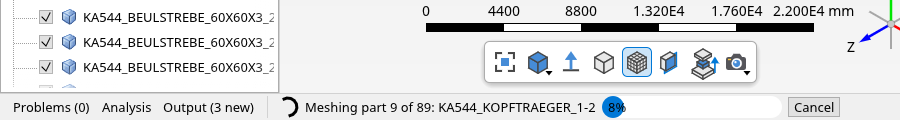
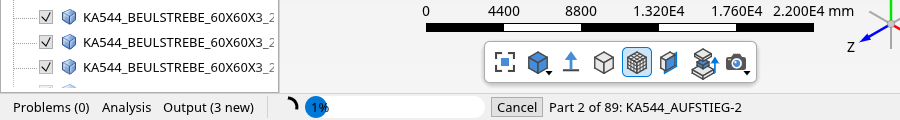
Mesh a part again without Netgen after a Gmsh crash, keep finished parts on Cancel
The progress bar and the Cancel button keep their place in the status bar; the
part's name follows them. Gmsh's log of a crash is kept as nodalis-gmsh-crash.log.

Claude-Session: https://claude.ai/code/session_0117wmBMg2RtfFDmTaqogpYr

diff --git a/crates/plx-app/src/meshing.rs b/crates/plx-app/src/meshing.rs
@@ -1294,11 +1294,14 @@ pub fn item_highlight(view: &Model, kind: &MeshSetupKind) -> Highlight {
 }
 
 /// The meshes of some parts, generated one after the other.
+#[derive(Default)]
 pub struct PartMeshes {
     pub meshes: Vec<GeneratedMesh>,
     /// Why the parts that could not be meshed failed, one message each, naming the part:
     /// a part that fails leaves the others to be meshed.
     pub failed: Vec<String>,
+    /// Cancelled before all parts were done; the meshes are those finished before.
+    pub cancelled: bool,
 }
 
 /// The argument that makes the program a meshing worker instead of opening its window.
@@ -1402,7 +1405,7 @@ fn mesh_parts(
     let parts = parts_to_mesh(geometry, parts)?;
     let mut generated = PartMeshes {
         meshes: Vec::with_capacity(parts.len()),
-        failed: Vec::new(),
+        ..PartMeshes::default()
     };
     mesh_list(
         geometry,
@@ -1478,6 +1481,8 @@ const CURRENT: &str = "current";
 
 /// The file Gmsh's messages go to.
 const GMSH_LOG: &str = "gmsh.log";
+/// Where the log of the last worker that crashed is kept, in the temporary folder.
+const CRASH_LOG: &str = "nodalis-gmsh-crash.log";
 
 /// The file of the K-th part's outcome, see [`PartOutcome`].
 fn part_file(k: usize) -> String {
@@ -1522,11 +1527,8 @@ fn mesh_in_worker(
         matching,
         parts,
     };
-    let mut generated = PartMeshes {
-        meshes: Vec::new(),
-        failed: Vec::new(),
-    };
-    while !request.parts.is_empty() {
+    let mut generated = PartMeshes::default();
+    while !request.parts.is_empty() && !generated.cancelled {
         // The parts before this worker's are done, meshed or failed.
         let before = total - request.parts.len();
         let parts = &request.parts;
@@ -1541,7 +1543,10 @@ fn mesh_in_worker(
         let Some((k, message)) = crashed else {
             break;
         };
-        generated.failed.push(message);
+        let part = request.parts[k].clone();
+        if !generated.cancelled {
+            mesh_without_netgen(program, &request, &part, message, cancel, &mut generated)?;
+        }
         // The parts after the one that crashed Gmsh, but not those meshed with others.
         let meshed: Vec<&str> = (generated.meshes.iter())
             .flat_map(|m| m.mesh.parts.iter().map(|p| p.name.as_str()))
@@ -1554,8 +1559,68 @@ fn mesh_in_worker(
     Ok(generated)
 }
 
+/// Meshes `part`, on which Gmsh crashed with `message`, once more without the Netgen
+/// optimization, which is where Gmsh crashes most; the part fails with `message` if it
+/// crashes again or was not optimized anyway.
+fn mesh_without_netgen(
+    program: &Path,
+    request: &WorkerRequest,
+    part: &str,
+    message: String,
+    cancel: &AtomicBool,
+    generated: &mut PartMeshes,
+) -> Result<(), String> {
+    let parameters = request.geometry.parameters(part);
+    if !parameters.optimize {
+        generated.failed.push(message);
+        return Ok(());
+    }
+    let mut geometry = request.geometry.clone();
+    geometry.mesh_items.push(plx_model::MeshSetupItem {
+        name: "Without Netgen".into(),
+        kind: plx_model::MeshSetupKind::MeshingParameters {
+            parts: vec![part.to_string()],
+            // The parameters the part has, with the sizes before any refinement.
+            parameters: plx_model::MeshingParameters {
+                optimize: false,
+                ..unrefined(&request.geometry, part)
+            },
+        },
+    });
+    let retry = WorkerRequest {
+        library: request.library.clone(),
+        geometry,
+        matching: request.matching.clone(),
+        parts: vec![part.to_string()],
+    };
+    let (meshes, failed) = (generated.meshes.len(), generated.failed.len());
+    run_worker(program, &retry, cancel, &|_| {}, generated)?;
+    // Only the first failure is told, which is what the user meshed with.
+    generated.failed.truncate(failed);
+    match generated.meshes.get_mut(meshes) {
+        Some(mesh) => mesh.warnings.push(format!(
+            "{message}. It was meshed again without Optimize mesh (Netgen), which worked"
+        )),
+        None if generated.cancelled => generated.failed.push(message),
+        None => generated.failed.push(format!(
+            "{message}. Meshed again without Optimize mesh (Netgen), it failed as well"
+        )),
+    }
+    Ok(())
+}
+
+/// The meshing parameters of `part` as set, before the refinement of the geometry.
+fn unrefined(geometry: &Geometry, part: &str) -> plx_model::MeshingParameters {
+    let mut parameters = geometry.parameters(part);
+    let refinement = geometry.refined(1.0);
+    parameters.max_size /= refinement;
+    parameters.min_size /= refinement;
+    parameters
+}
+
 /// Runs one worker on `request` and adds what it made to `generated`; returns the place in
-/// the request of the part it crashed on, with the message that tells so.
+/// the request of the part it crashed on, with the message that tells so. Cancelled, it
+/// keeps the parts finished before and marks `generated` cancelled.
 fn run_worker(
     program: &Path,
     request: &WorkerRequest,
@@ -1595,7 +1660,8 @@ fn run_worker(
         if cancel.load(Ordering::Relaxed) {
             let _ = child.kill();
             let _ = child.wait();
-            return Err(CANCELLED.into());
+            generated.cancelled = true;
+            break (None, None);
         }
         if let Ok(text) = std::fs::read_to_string(&result) {
             let _ = child.kill();
@@ -1627,6 +1693,9 @@ fn run_worker(
         let result: WorkerResult = ron::from_str(&text).map_err(|e| e.to_string())?;
         return result.map(|()| None);
     }
+    if generated.cancelled {
+        return Ok(None);
+    }
     let status = status.map_or_else(String::new, |s| format!(" ({s})"));
     // The part it was meshing when it stopped, unless it stopped before or after the parts.
     let current = (std::fs::read_to_string(dir.0.join(CURRENT)).ok())
@@ -1640,12 +1709,15 @@ fn run_worker(
         .find_map(plx_mesher::meshing_step)
         .map_or_else(String::new, |step| format!(" while {step}"));
     let part = &request.parts[current];
+    // Gmsh's own words up to the crash, for a report of it.
+    let kept = std::env::temp_dir().join(CRASH_LOG);
+    let kept = match std::fs::write(&kept, &gmsh_log) {
+        Ok(()) => format!(" (Gmsh's log: {})", kept.display()),
+        Err(_) => String::new(),
+    };
     Ok(Some((
         current,
-        format!(
-            "{part}: Gmsh crashed{place}{status}. The other parts are meshed on; a \
-             different element size or a repaired geometry of the part may help"
-        ),
+        format!("{part}: Gmsh crashed{place}{status}{kept}"),
     )))
 }
 
@@ -1712,6 +1784,16 @@ impl MeshingJob {
             cancel,
             progress,
         }
+    }
+
+    /// Stops the meshing; the parts finished before are kept, see [`PartMeshes::cancelled`].
+    pub fn cancel(&self) {
+        self.cancel.store(true, Ordering::Relaxed);
+    }
+
+    /// Whether [`Self::cancel`] was called.
+    pub fn cancelling(&self) -> bool {
+        self.cancel.load(Ordering::Relaxed)
     }
 
     /// How far it is: the part meshed now, with the parts done and all; `None` before the

diff --git a/crates/plx-app/src/app.rs b/crates/plx-app/src/app.rs
@@ -1149,35 +1149,34 @@ impl AnalysisWindow {
                 }
             }
             (None, _) if self.workbench.meshing.is_some() => {
-                let progress = (self.workbench.meshing.as_ref()).and_then(|j| j.progress());
-                match progress {
-                    // With more than one part, how many are done.
-                    Some(progress) if progress.total > 1 => {
-                        ui.spinner();
-                        ui.label(format!(
-                            "Meshing part {} of {}: {}",
-                            progress.done + 1,
-                            progress.total,
-                            progress.part
-                        ));
-                        ui.add(
-                            egui::ProgressBar::new(progress.done as f32 / progress.total as f32)
-                                .desired_width(180.0)
-                                .show_percentage(),
-                        );
-                    }
-                    Some(progress) => {
-                        ui.spinner();
-                        ui.label(format!("Meshing {} …", progress.part));
-                    }
-                    None => {
-                        ui.spinner();
-                        ui.label("Meshing …");
-                    }
+                let job = self.workbench.meshing.as_ref();
+                let cancelling = job.is_some_and(MeshingJob::cancelling);
+                let progress = job.and_then(MeshingJob::progress);
+                ui.spinner();
+                // The bar and the button first, at fixed places, and the text that changes
+                // its length after them.
+                let several = progress.as_ref().filter(|p| p.total > 1);
+                if let Some(progress) = several {
+                    ui.add(
+                        egui::ProgressBar::new(progress.done as f32 / progress.total as f32)
+                            .desired_width(180.0)
+                            .show_percentage(),
+                    );
                 }
-                cancel = (ui.small_button("Cancel"))
-                    .on_hover_text("Stop the meshing; the parts keep their old mesh.")
-                    .clicked();
+                if !cancelling {
+                    cancel = (ui.small_button("Cancel"))
+                        .on_hover_text("Stop the meshing; the parts meshed so far are kept.")
+                        .clicked();
+                }
+                let text = match (&progress, cancelling) {
+                    (_, true) => "Cancelling the meshing …".to_string(),
+                    (Some(p), _) if p.total > 1 => {
+                        format!("Part {} of {}: {}", p.done + 1, p.total, p.part)
+                    }
+                    (Some(p), _) => format!("Meshing {} …", p.part),
+                    (None, _) => "Meshing …".to_string(),
+                };
+                ui.add(egui::Label::new(text).truncate());
             }
             (None, Some(model)) if model.is_geometry() => {
                 ui.label(format!(
@@ -4000,10 +3999,11 @@ impl Workbench {
         self.mesh_failure.clear();
     }
 
-    /// Cancels the meshing under way: the mesher is killed and the parts keep their mesh.
+    /// Cancels the meshing under way: the mesher is killed, the parts it finished get their
+    /// new mesh and the others keep theirs, see [`Self::poll_meshing`].
     fn cancel_meshing(&mut self) {
-        if self.meshing.take().is_some() {
-            self.output.push(crate::meshing::CANCELLED.into());
+        if let Some(job) = &self.meshing {
+            job.cancel();
         }
     }
 
@@ -4020,6 +4020,22 @@ impl Workbench {
         }
         match result {
             Ok(mut generated) => {
+                if generated.cancelled {
+                    let kept = (generated.meshes.iter())
+                        .map(|m| m.mesh.parts.len())
+                        .sum::<usize>();
+                    self.output.push(match kept {
+                        0 => format!("{}; no part was finished", crate::meshing::CANCELLED),
+                        1 => format!(
+                            "{}; the part finished before is kept",
+                            crate::meshing::CANCELLED
+                        ),
+                        n => format!(
+                            "{}; the {n} parts finished before are kept",
+                            crate::meshing::CANCELLED
+                        ),
+                    });
+                }
                 let failed = std::mem::take(&mut generated.failed);
                 self.note_mesh_findings(&generated, &failed);
                 if generated.meshes.is_empty() {

diff --git a/crates/plx-app/src/mesh_tools.rs b/crates/plx-app/src/mesh_tools.rs
@@ -616,7 +616,7 @@ mod tests {
             .collect();
         let generated = crate::meshing::PartMeshes {
             meshes,
-            failed: Vec::new(),
+            ..Default::default()
         };
         crate::app::merge_part_meshes(model, &geometry, generated, None).unwrap();
     }
